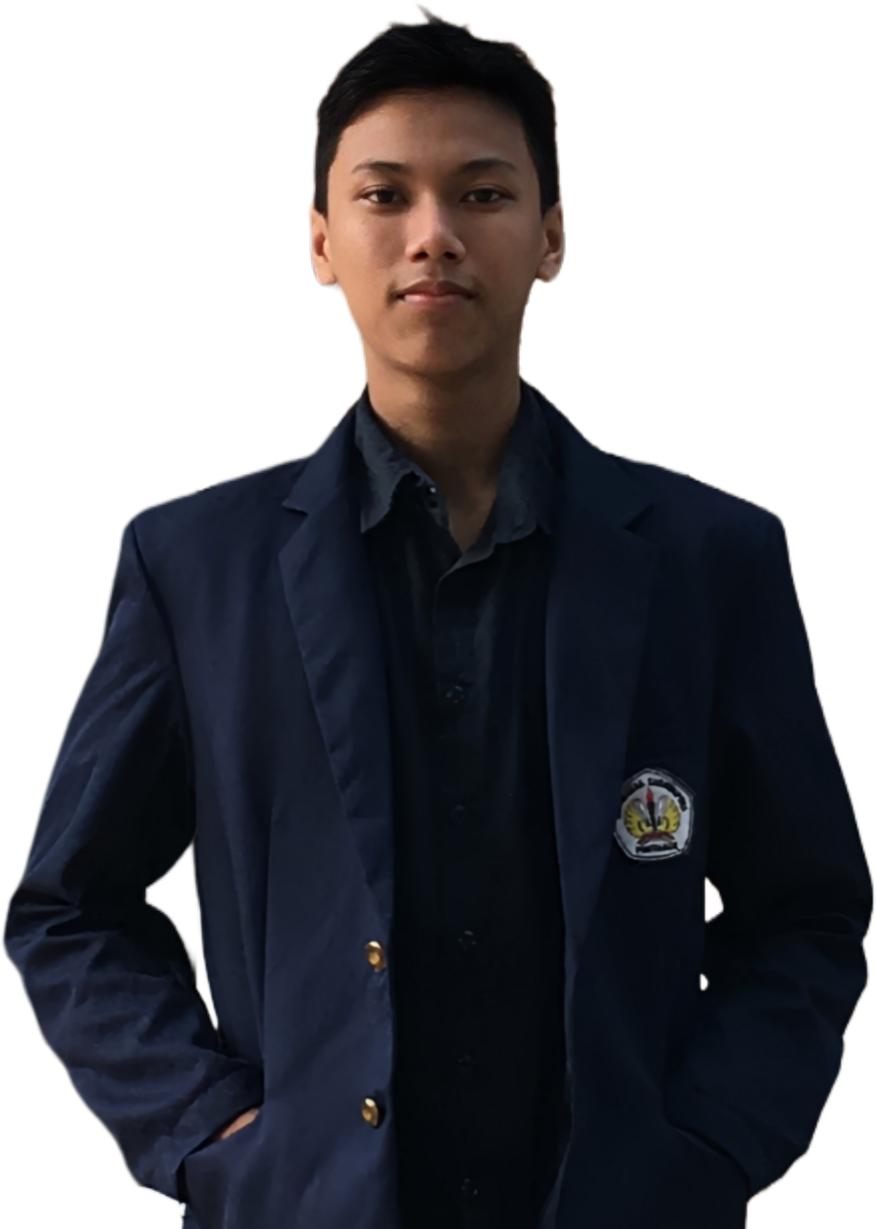
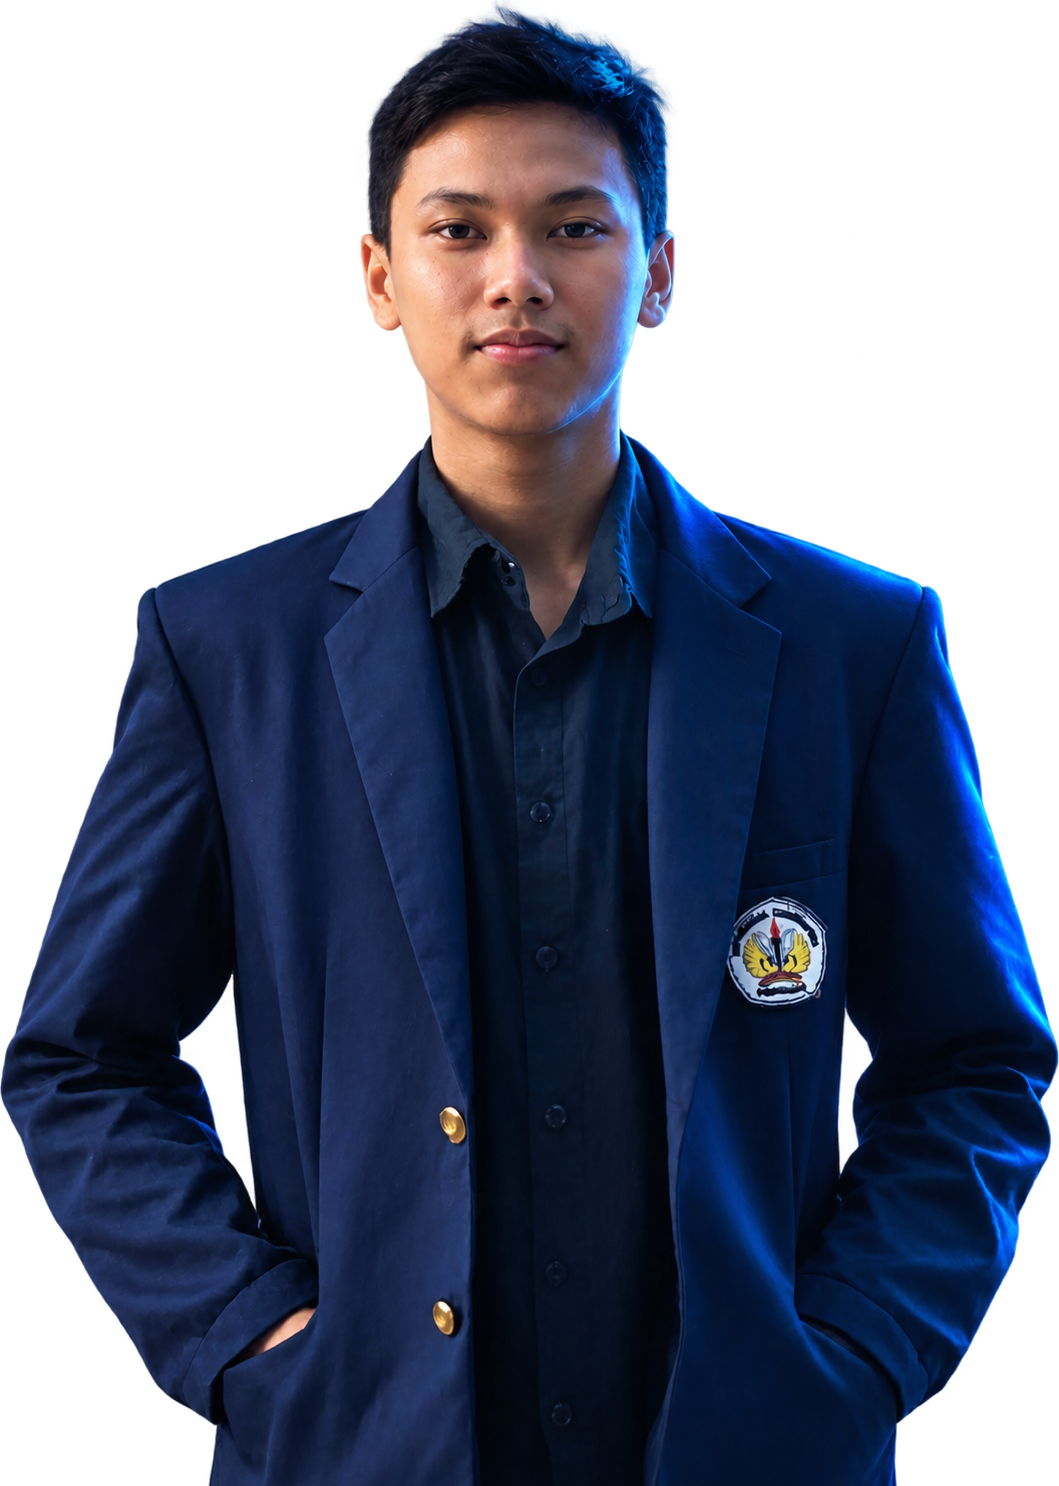
v1.2

diff --git a/index.html b/index.html
@@ -16,7 +16,7 @@
   <div class="bg" aria-hidden="true"></div>
 
   <header class="nav">
-    <a class="logo" href="#home">Jati Wisnu</a>
+    <a class="logo" href="#home">PORTOFOLIO</a>
     <nav>
       <a href="#about">Tentang</a>
       <a href="#projects">Project</a>
@@ -38,7 +38,6 @@
 
       <div class="hero-right">
         <p>Berawal dari suka bermain game, sekarang aku justru tertarik untuk membuatnya sendiri. Sebagai mahasiswa Teknik Informatika, aku sedang banyak belajar dan bereksperimen di dunia game development.</p>
-        <!-- GANTI tanda # dengan link aslimu (GitHub sudah diisi, cek kalau salah) -->
         <ul class="social-icons">
           <li><a href="https://github.com/jaticoder" target="_blank" rel="noopener" aria-label="GitHub" title="GitHub"><img src="assets/icons/github.png" alt="GitHub"></a></li>
           <li><a href="https://discord.com/users/1157973995778474084" target="_blank" rel="noopener" aria-label="Discord" title="Discord"><img src="assets/icons/discord.png" alt="Discord"></a></li>
